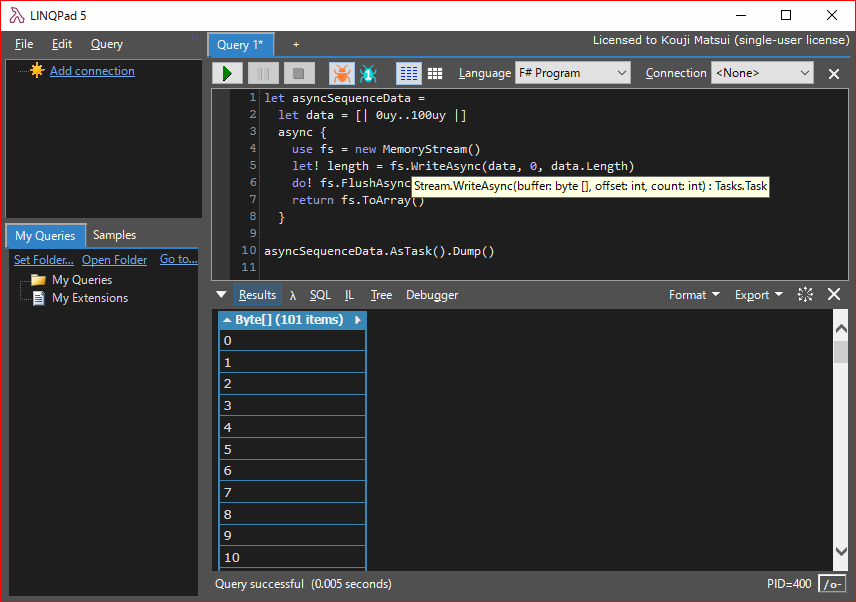
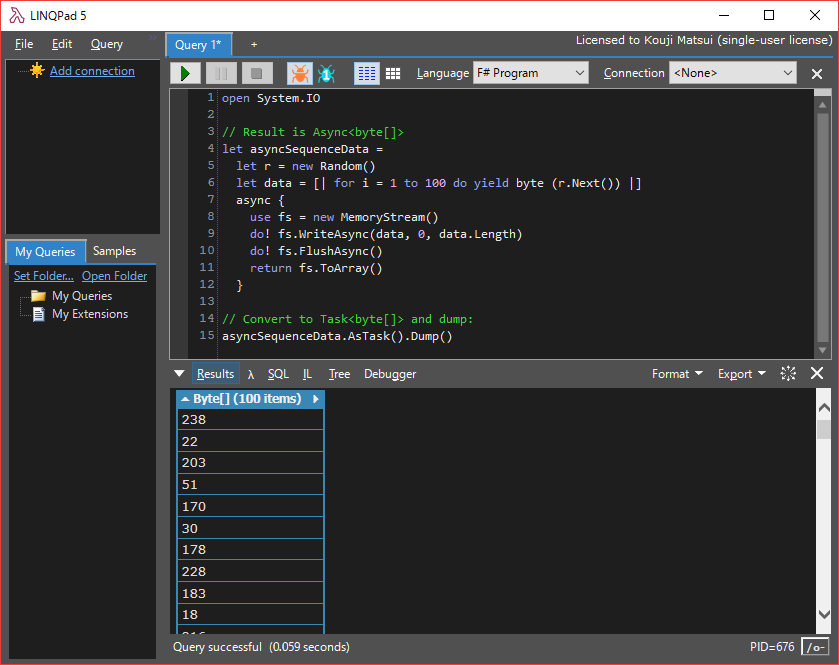
Bit changed.

Changed region(s): [[0.0, 0.0, 1.0, 1.0]]

diff --git a/README.md b/README.md
@@ -93,7 +93,7 @@ let asyncTest = async {
 use ms = new MemoryStream()
 
 // Manually conversion by "AsAsync" : Task<T> --> Async<'T>
-let asy = ms.WriteAsync(data, 0, data.Length).AsAsync()
+let length = ms.ReadAsync(data, 0, data.Length).AsAsync() |> Async.RunSynchronosly
 ```
 
 ### Without async workflow (CancellationToken):
@@ -104,9 +104,9 @@ let cts = new CancellationTokenSource()
 
 // Produce with CancellationToken:
 // TIPS: FusionTasks cannot handle directly CancellationToken IN ASYNC WORKFLOW.
-//   Because async workflow semantics implicitly handled CancellationToken with Async.DefaultCanncelationToken, CacellationToken and CancelDefaultToken().
+//   Because async workflow semantics implicitly handled CancellationToken with Async.DefaultCancellationToken, CancellationToken and CancelDefaultToken().
 //   (CancellationToken derived from Async.StartWithContinuations() in async workflow.)
-let asy = ms.WriteAsync(data, 0, data.Length).AsAsync(cts.Token)
+let length = ms.ReadAsync(data, 0, data.Length).AsAsync(cts.Token) |> Async.RunSynchronosly
 ```
 
 ### Handle Task.ConfigureAwait(...)  (Capture/release SynchContext)
@@ -116,11 +116,11 @@ let asyncTest = async {
   use ms = new MemoryStream()
 
   // Task<T> --> ConfiguredAsyncAwaitable<'T> :
-  // Why use AsyncConfigure() insted ConfigureAwait() ?
+  // Why use AsyncConfigure() instead ConfigureAwait() ?
   //   Because the "ConfiguredTaskAwaitable<T>" lack declare the TypeForwardedTo attribute in some PCL.
   //   If use AsyncConfigure(), complete hidden refer ConfiguredTaskAwaitable into FusionTasks assembly,
   //   avoid strange linking errors.
-  let! length = ms.WriteAsync(data, 0, data.Length).AsyncConfigure(false)
+  let! length = ms.ReadAsync(data, 0, data.Length).AsyncConfigure(false)
 }
 ```
 
@@ -131,12 +131,15 @@ let asyncTest = async {
 * Before setup NuGet package (FSharp.Control.FusionTasks.FS40) the LINQPad NuGet Manager.
 
 ``` fsharp
+open System.IO
+
 // Result is Async<byte[]>
 let asyncSequenceData =
-  let data = [| 0uy..100uy |]
+  let r = new Random()
+  let data = [| for i = 1 to 100 do yield byte (r.Next()) |]
   async {
     use fs = new MemoryStream()
-    let! length = fs.WriteAsync(data, 0, data.Length)
+    do! fs.WriteAsync(data, 0, data.Length)
     do! fs.FlushAsync()
     return fs.ToArray()
   }
